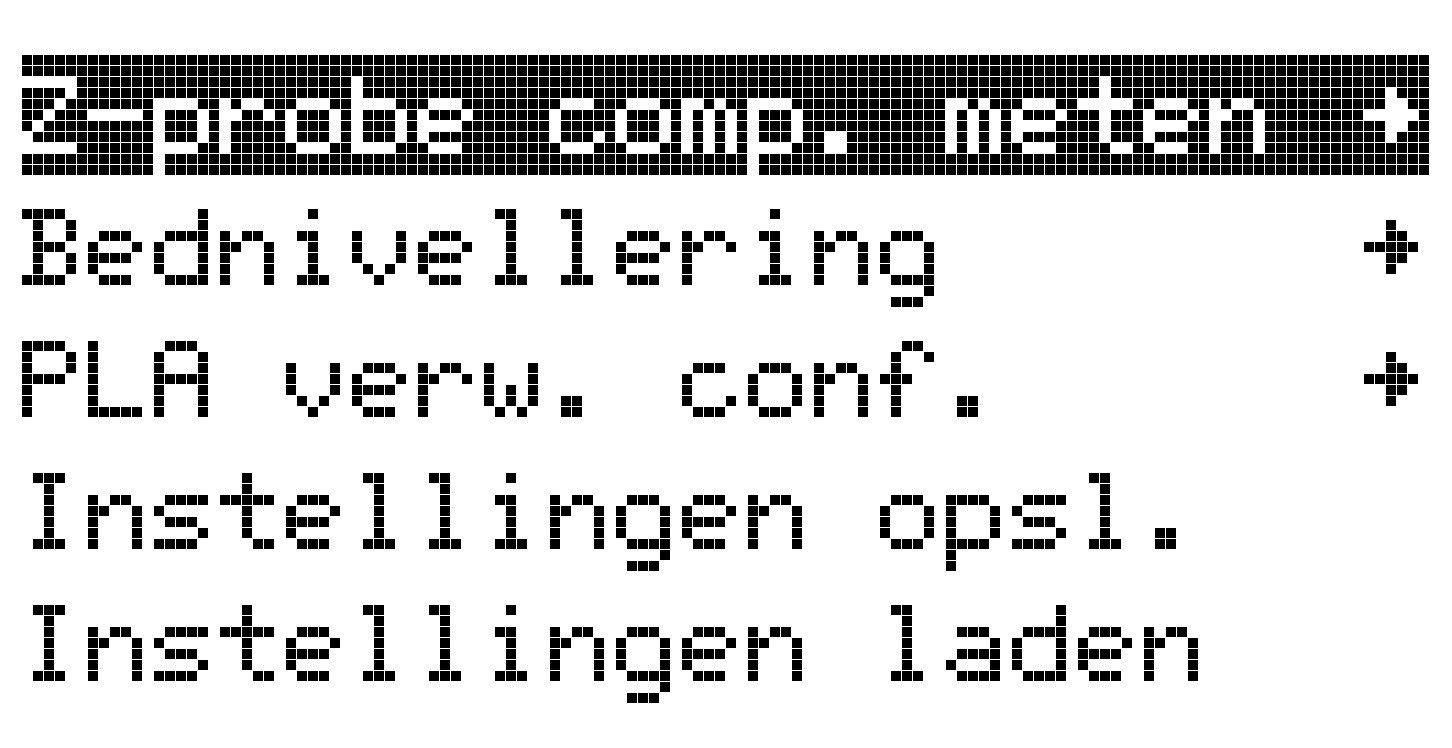
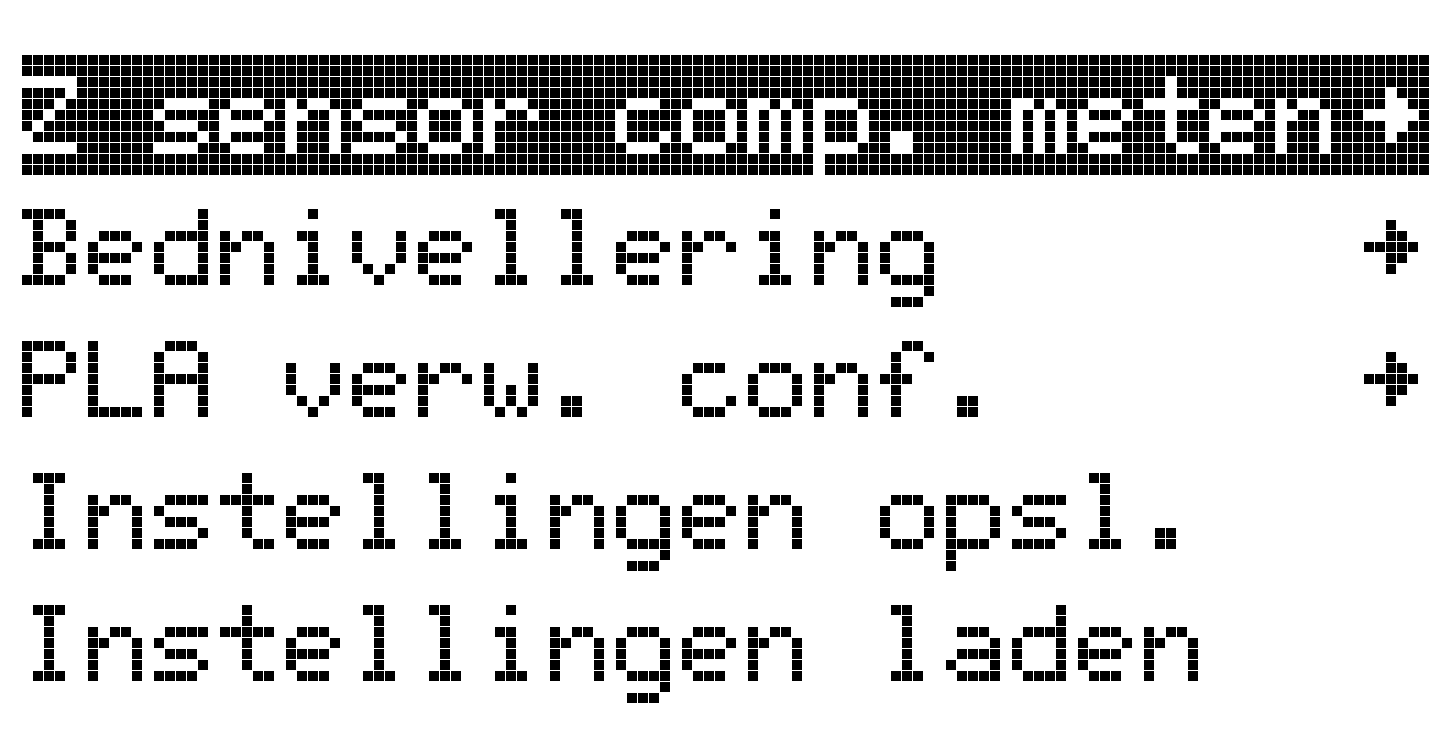
Hernoem probe naar sensor

Changed region(s): [[0.4339, 0.0922, 0.9298, 0.246], [0.062, 0.0922, 0.4339, 0.246]]

diff --git a/README.md b/README.md
@@ -15,7 +15,7 @@ zoals in de gebruiksaanwijzing
 ## 7. Afstellen
 1. Denk aan het schoonmaken van de printkop
 2. Voer in het menu [`Configuratie`](#configuratie) de [`Zet X0 Y0 Z0`](#zet-x0-y0-z0) stap uit.
-3. Meet via menu [`Configuratie`](#configuratie) de [Z-probe compensatie](#z-probe-compensatie-meten).
+3. Meet via menu [`Configuratie`](#configuratie) de [Z sensor compensatie](#z-sensor-compensatie-meten).
 4. Voer de [bednivellering](#bednivellering) uit.
 ## 8. Voorbereiding Cura
 Niet meer nodig 
@@ -141,7 +141,7 @@ Deze optie kan als volgt gebruikt worden:
 1. Zet de printer in de thuispositie, via de `Naar thuispositie` optie in het hoofdmenu.
 2. Verplaats via het menu `Beweging` -> `As verplaatsen` de X-as naar de linkerrand van de glasplaat, tot 2 cm vanaf de rand.
 3. Verplaats de Y-as naar de voorkant van de glasplaat, tot 4 cm vanaf de rand.
-4. Indien je geen Z-probe gaat gebruiken, ga nu hieronder door met de fijnafstelling van de Z-as
+4. Indien je geen Z sensor gaat gebruiken, ga nu hieronder door met de fijnafstelling van de Z-as
 5. Activeer nu de optie `Zet X0 Y0 Z0` in het `Configuratie` menu.
 6. Sla nu de instellingen op, via `Configuratie` -> `Instellingen opsl.`.
 
@@ -154,47 +154,47 @@ Deze optie kan als volgt gebruikt worden:
 5. Probeer nu dezelfde weerstand rechts te krijgen door met de hand aan de rechter spindel te draaien
 
 > [!NOTE]
-> Na het uitvoeren van Bednivellering wordt Z0 opnieuw bepaald aan de hand van de probe. Klopt de Z0 toch niet helemaal? Verander dan de `Z-probe comp.` in het `Bednivellering` menu en voer de bednivellering opnieuw uit.
+> Na het uitvoeren van Bednivellering wordt Z0 opnieuw bepaald aan de hand van de Z sensor. Klopt de Z0 toch niet helemaal? Verander dan de `Z sensor comp.` in het `Bednivellering` menu en voer de bednivellering opnieuw uit.
 
-### Z-probe compensatie meten
+### Z sensor compensatie meten
 
-De printer moet weten na hoeveeel millimeter beweging de Z-probe eindstop klikt. Deze optie helpt je de afstand van de nozzle tot het schakelmoment te meten.
+De printer moet weten na hoeveeel millimeter beweging de Z sensor eindstop klikt. Deze optie helpt je de afstand van de nozzle tot het schakelmoment te meten.
 
 Bij het selecteren van deze optie wordt de volgende procedure gevolgd:
 
 1. De printkop gaat automatisch naar de thuispositie.
 2. De printkop beweegt naar het midden
-3. De printer keert terug naar het statusscherm met de melding `Bevestig Z-probe`
-4. Bevestig de Z-probe aan de printkop
+3. De printer keert terug naar het statusscherm met de melding `Bevestig Z sensor`
+4. Bevestig de Z sensor aan de printkop
 5. Druk op de draaiknop
 6. De printer wacht nu tot het bed verwarmd is
 7. De meting wordt gedaan
-8. De printer vraagt nu om de Z-probe te verwijderen, verwijder die
+8. De printer vraagt nu om de Z sensro te verwijderen, verwijder die
 9. Druk op de knop
 10. Verplaats nu via het menu de nozzle richting het printbed, meet met een papiertje dat je een héél klein beetje weerstand voelt.
 11. Wanneer de nozzle het papietje net raakt, kies de optie `Klaar` in het menu
-12. De printer weet nu hoeveel die moet compenseren met de Z-probe. Sla via het `Configuratie` menu de instellingen op.
+12. De printer weet nu hoeveel die moet compenseren met de Z sensor. Sla via het `Configuratie` menu de instellingen op.
 
 > [!NOTE]
-> Zit de printkop te laag tijdens het printen? Dan zat je in deze stap te laag toen je `Klaar` koos in het menu. Je kan ook in het `Bednivellering` menu de `Z-probe comp.` waarde iets verhogen (en vice versa). Start een nieuwe bednivellering na het aanpassen.
+> Zit de printkop te laag tijdens het printen? Dan zat je in deze stap te laag toen je `Klaar` koos in het menu. Je kan ook in het `Bednivellering` menu de `Z sensor comp.` waarde iets verhogen (en vice versa). Start een nieuwe bednivellering na het aanpassen.
 
 ### Bednivellering
 
 ![](./menu-configuratie-bednivellering.png)
 
 > [!IMPORTANT]  
-> Voor deze optie is het belangrijk dat de Z-probe compensatie gemeten is. De meetwaarde staat in de `Z-probe comp.` in dit menu.
+> Voor deze optie is het belangrijk dat de Z sensor compensatie gemeten is. De meetwaarde staat in de `Z sensor comp.` in dit menu.
 
 > [!CAUTION]
-> Om te voorkomen dat de Z-probe smelt, zorg ervoor dat de printkop kouder dan 50 graden is voordat je de probe bevestigt.
+> Om te voorkomen dat de Z sensor smelt, zorg ervoor dat de printkop kouder dan 50 graden is voordat je de sensor bevestigt.
 
 1. Kies `Start bednivellering`
 2. De printer zal nu zonder bevesgiging in beeld naar de thuispositie gaan
-3. De printer vraagt om de Z-probe te bevestigen
+3. De printer vraagt om de Z sensor te bevestigen
 4. Druk na het bevestigen op de draaiknop
 5. Het bed wordt nu verwarmd
 6. De printer zal nu 9 punten meten
-7. De printer vraagt om de probe te verwijderen, doe dat
+7. De printer vraagt om de Z sensor te verwijderen, doe dat
 8. Sla de instellingen op
 
 > [!NOTE]  
